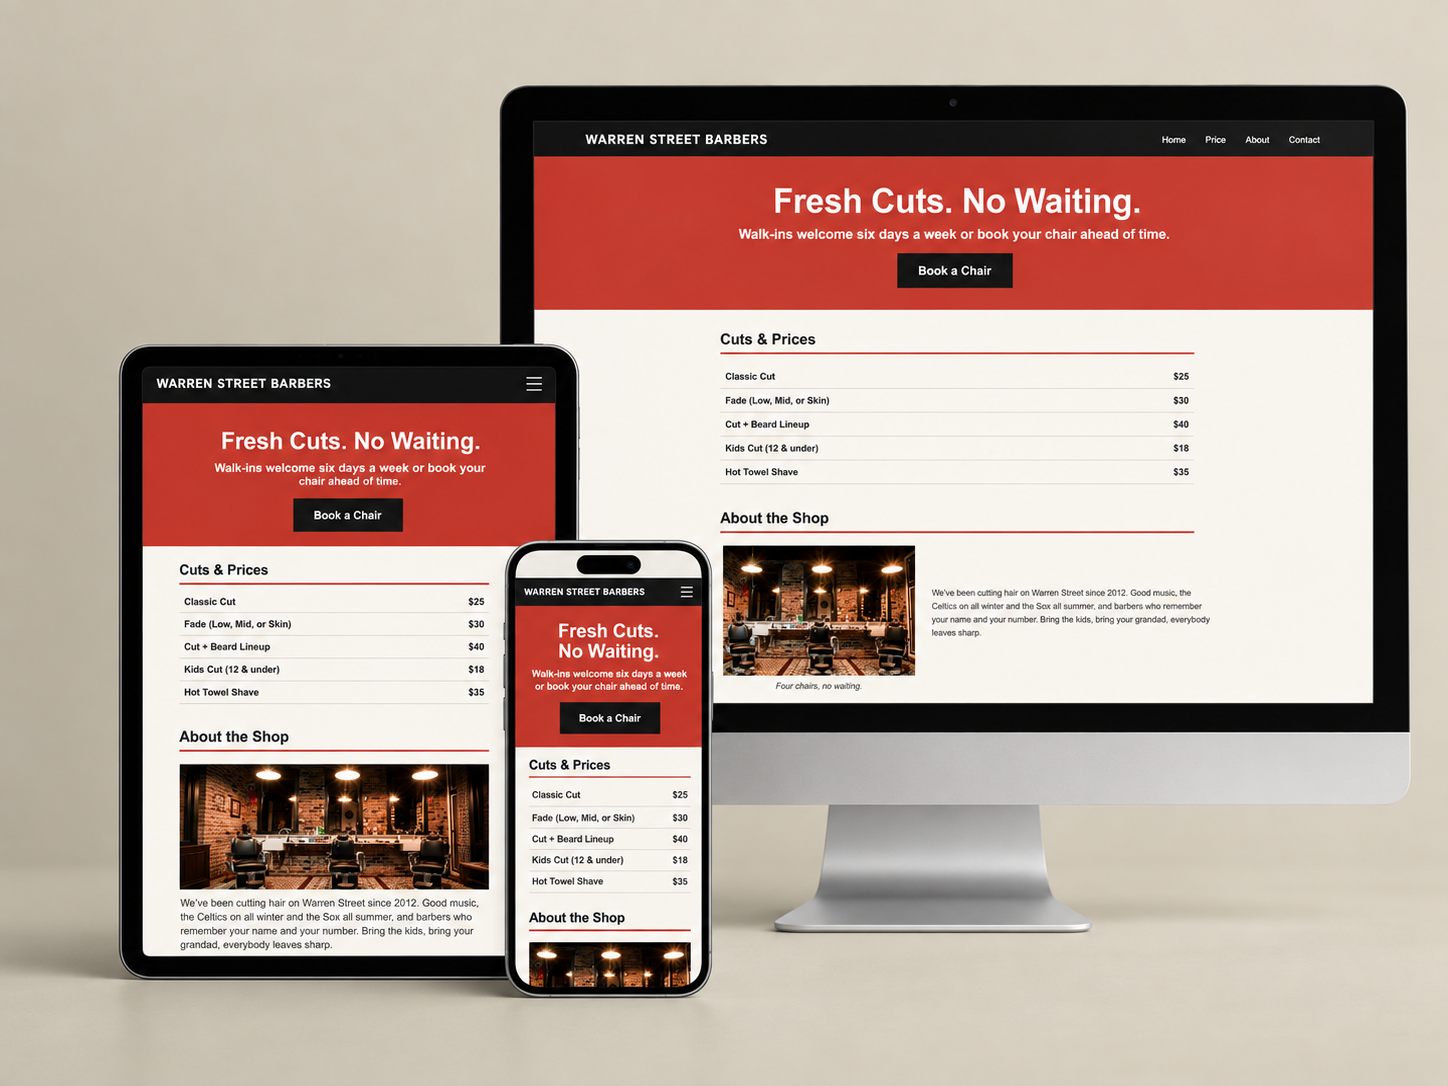
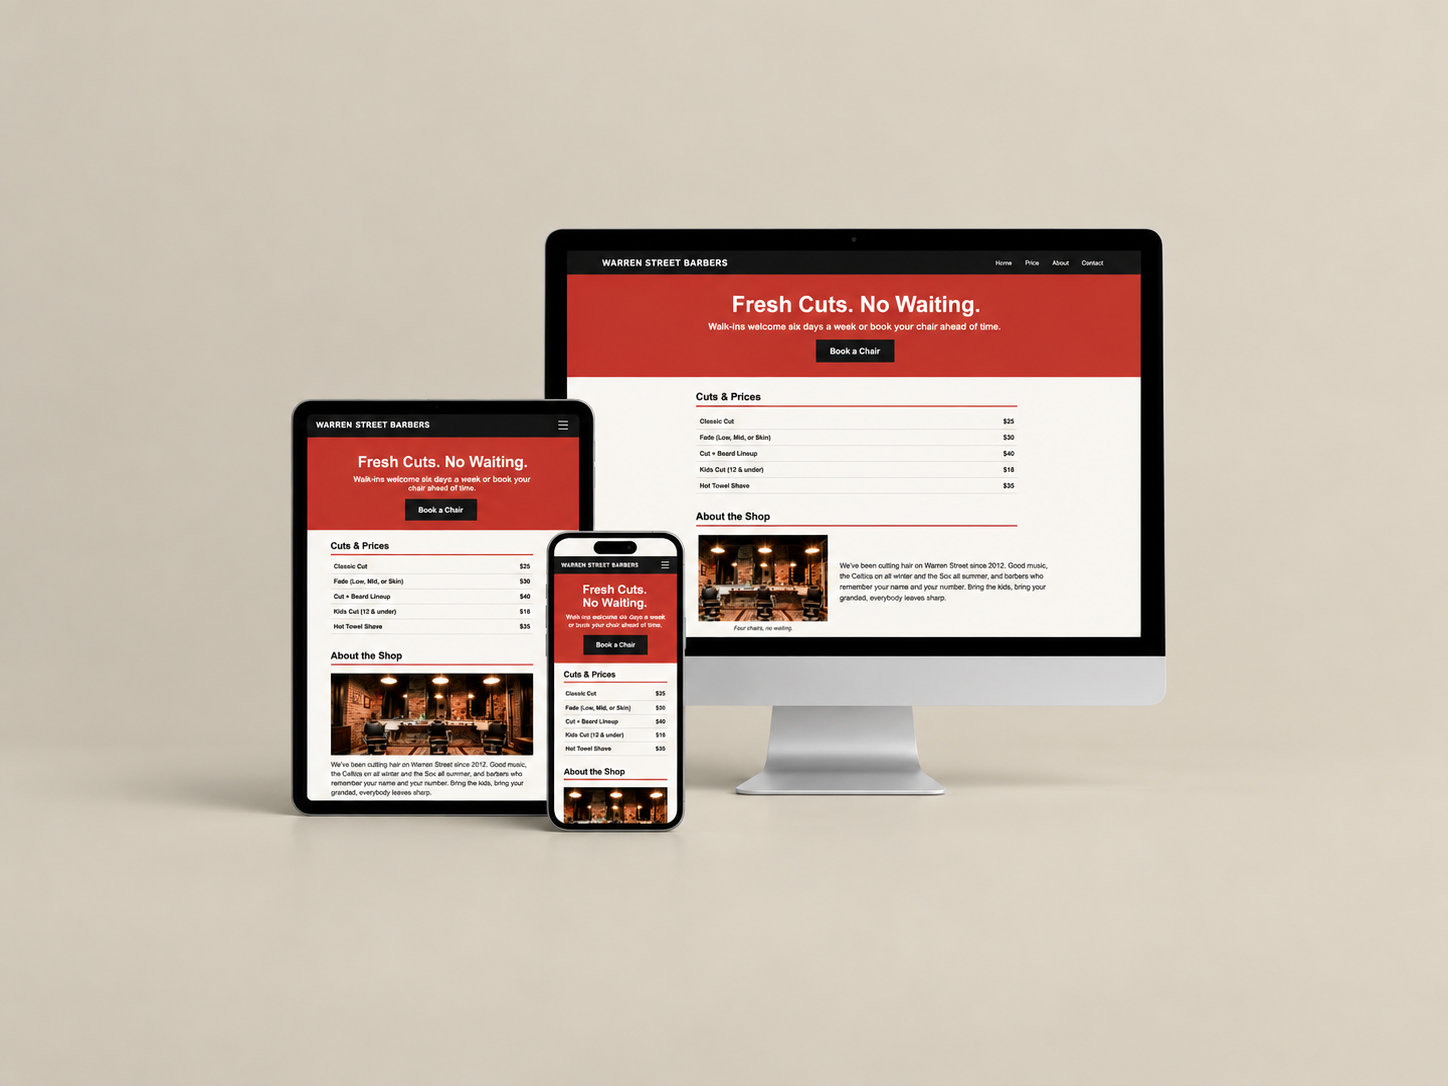
add mockup images

diff --git a/index.html b/index.html
@@ -130,7 +130,7 @@
             <!-- Project 1  -->
             <article class="project-card reveal">
               <div class="project-image">
-                <img src=" lineupsmb.png" alt="Mockup of website" />
+                <img src="lineupsmb.png" alt="Mockup of website" />
                 <div class="image-placeholder"></div>
               </div>
               <div class="project-content">
@@ -183,7 +183,7 @@
             <!-- Project 3 -->
             <article class="project-card reveal">
               <div class="project-image">
-                <img src="phillywatersmb.png" />
+                <img src="phillywater.png" />
                 <div class="image-placeholder">Project Preview</div>
               </div>
               <div class="project-content">
